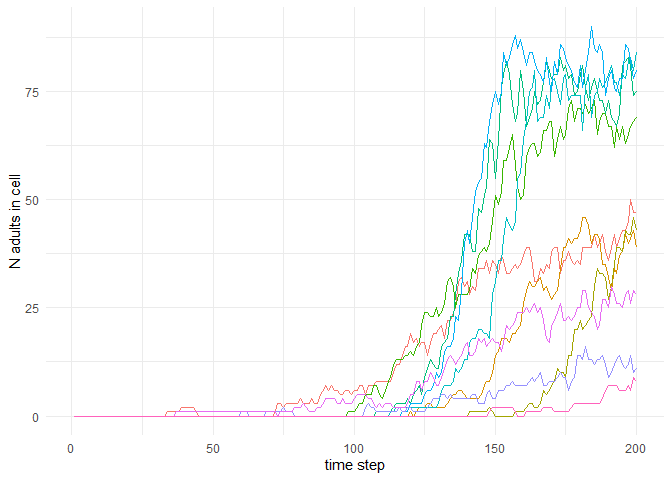
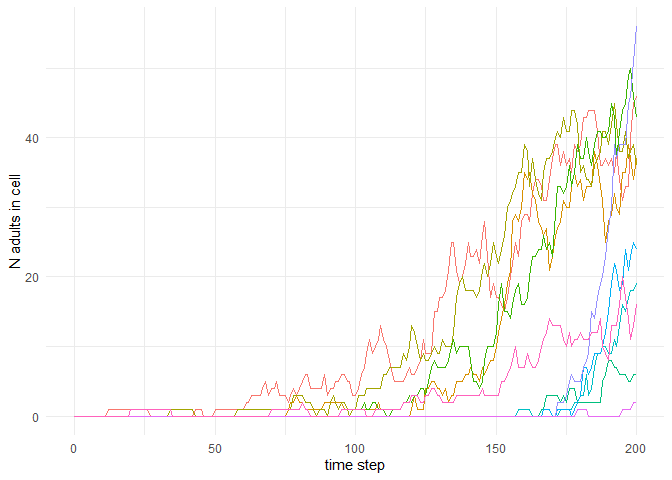
add visualization functions

diff --git a/README.md b/README.md
@@ -104,7 +104,8 @@ sp$kernel$S <- 2
 
 Using these landscape and species inputs, we can now `simulate` range
 dynamics over time. At each time step, the species goes through a
-demographic transition and dispersal occurs.
+demographic transition, and then dispersal occurs. The function returns
+an array of populations over space and time.
 
 ``` r
 d <- simulate(sp, ls, # data and parameter inputs from above
@@ -112,11 +113,22 @@ d <- simulate(sp, ls, # data and parameter inputs from above
               record = 3) # record populations for life stage 3 (adults)
 ```
 
-The result is an array of adult populations over space and time. The
-first plot below shows population time series for 10 random grid cells,
-with populations in many cells leveling off due to density dependence.
-The second plot shows snapshots of spatial population patterns over
-time, with an east-west gradient in population size resulting from the
-spatial environmental gradient.
+We can quickly visualize the output using a couple plotting functions.
+The first plot below shows population time series for 10 random grid
+cells, with populations in many cells leveling off due to density
+dependence. The second plot shows snapshots of spatial population
+patterns over time, with an east-west gradient in population size
+resulting from the spatial environmental gradient.
 
-<img src="man/figures/README-timeseries-1.png" width="100%" /><img src="man/figures/README-timeseries-2.png" width="100%" />
+``` r
+library(tidyverse)
+d %>% plot_lines() %>% print()
+```
+
+<img src="man/figures/README-timeseries-1.png" width="100%" />
+
+``` r
+d %>% plot_heatmaps() %>% print()
+```
+
+<img src="man/figures/README-timeseries-2.png" width="100%" />
